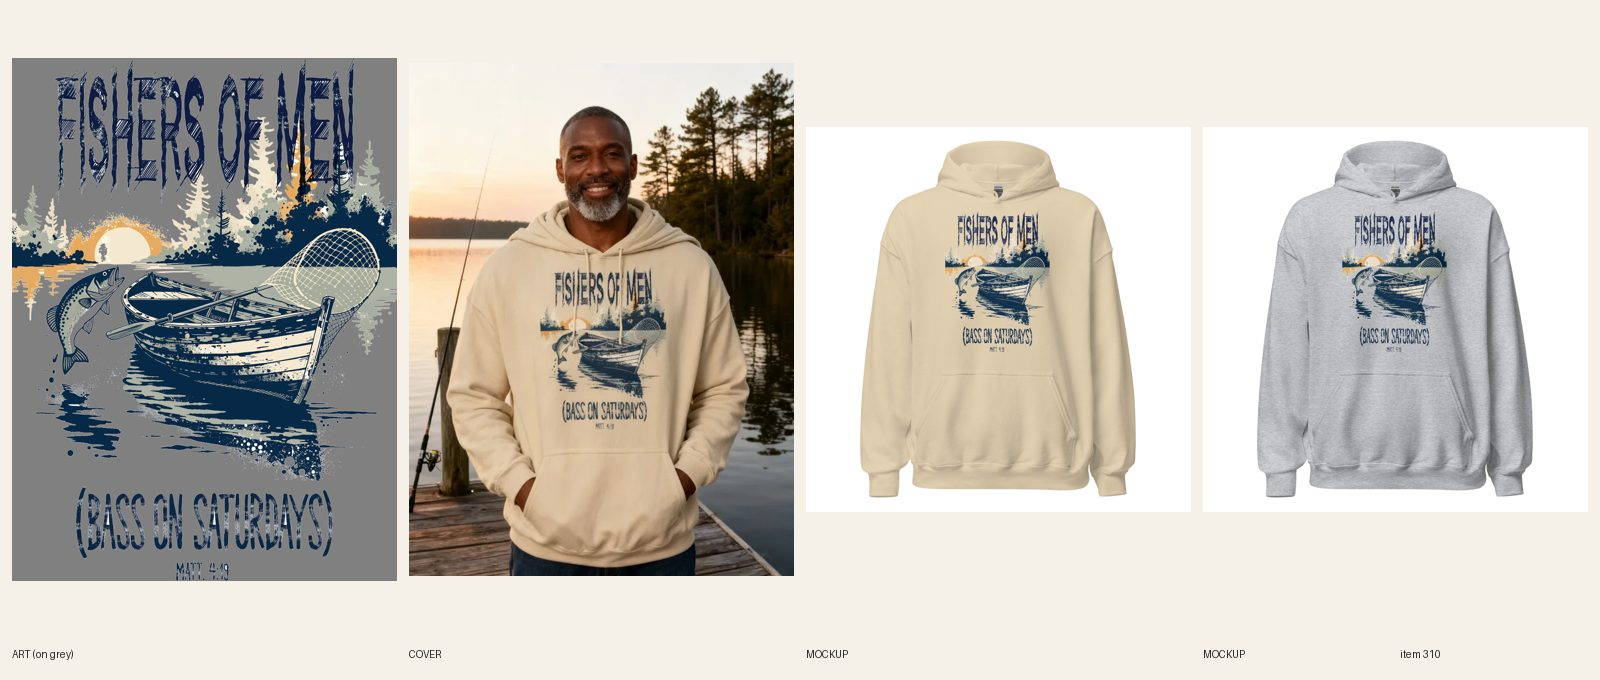
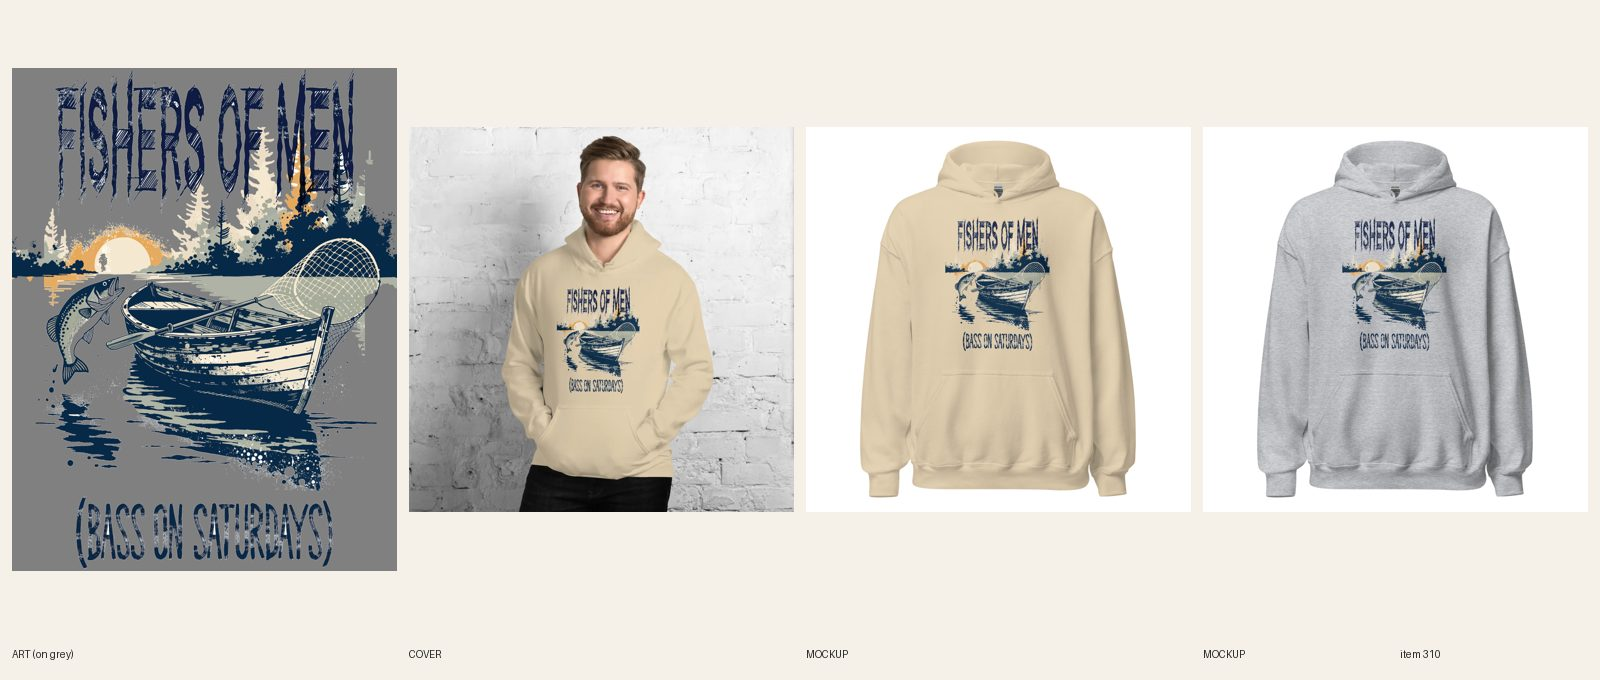
[B] review 310 Fishers of Men redo (edges broken, MATT line dropped, temp cover)
Claude-Session: https://claude.ai/code/session_01Az49gcuMMQPFtTsfDvNdKQ

Changed region(s): [[0.0, 0.0618, 0.5, 0.8647], [0.8125, 0.3088, 0.9062, 0.525], [0.5938, 0.3088, 0.6562, 0.525]]

diff --git a/src/data/covers.ts b/src/data/covers.ts
@@ -302,7 +302,7 @@ export const covers: Record<string, { src: string; alt: string }> = {
   'womens-nurse-dont-say-the-q-word-hoodie': { src: '/covers/womens-nurse-dont-say-the-q-word-hoodie.webp', alt: 'Woman in her early 40s with shoulder-length black hair and small hoop earrings in a Sand Don\'t Say the Q Word nurse hoodie in a hospital staff parking lot at dawn wearing navy scrub pants' },
   'womens-mama-i-have-followers-duck-hoodie': { src: '/covers/womens-mama-i-have-followers-duck-hoodie.webp', alt: 'Woman in her early 30s with a low ponytail in a Sand I Have Followers duck hoodie at a farm pond in October with ducks on the water and a stroller handle beside her' },
   'womens-bookish-plot-twist-cropped-hoodie': { src: '/covers/womens-bookish-plot-twist-cropped-hoodie.webp', alt: 'Woman in glasses and a black Plot Twist cropped hoodie standing between campus library shelves in autumn light' },
-  'mens-christian-fishers-of-men-hoodie': { src: '/covers/mens-christian-fishers-of-men-hoodie.webp', alt: 'Man in a sand Fishers of Men hoodie on a lake dock at sunrise with a fishing rod leaning on the post behind him' },
+  'mens-christian-fishers-of-men-hoodie': { src: '/covers/mens-christian-fishers-of-men-hoodie.webp', alt: 'Man smiling against a white brick wall in a sand Fishers of Men Bass on Saturdays christian hoodie, hands in the front pocket' },
   'womens-gym-lunges-and-lattes-hoodie': { src: '/covers/womens-gym-lunges-and-lattes-hoodie.webp', alt: 'Woman in a sand Lunges & Lattes hoodie smiling outside a bright boutique gym entrance in morning light' },
   'unisex-running-pace-leisurely-hoodie': { src: '/covers/unisex-running-pace-leisurely-hoodie.webp', alt: 'Man and woman in sand Pace: Leisurely hoodies smiling at a fall 5K finish area with orange leaves' },
   'mens-western-cowboy-up-later-hoodie': { src: '/covers/mens-western-cowboy-up-later-hoodie.webp', alt: 'Man in a sand Cowboy Up Later hoodie smiling at a ranch barn door and corral fence at golden hour' },

diff --git a/docs/intake-log.md b/docs/intake-log.md
@@ -1,5 +1,6 @@
 2026-10-17 04:42 UTC — [H] Helper run: Telegram inbox empty (getUpdates returned nothing, nothing to consume). Audit (283 live): 162 errors, all price (builders' job), 8 warnings left alone; no scripted meta/SEO/collection errors to fix. Esbuild was missing from node_modules, so ran npm ci first. Category backfill: 0 products without a category (done). Site freshness: womens-christmas-cardinal-christmas-hoodie, womens-christmas-winter-woods-fox-hoodie, womens-christmas-christmas-cats-hoodie all 200. Stuck check: none (320 BUILDING, last commit 04:37 UTC; lane locks A 03:58, B 04:28). Announcement bar unchanged (price errors not yet zero). Daily summary not due (next after 12:00 UTC). Lock released.
 RUNNING lane A since 2026-10-17 03:58 UTC
+2026-10-17 04:51 UTC — [B] Builder (temp-cover mode): #310 Fishers of Men hoodie REDO → REVIEW (edges broken, MATT. line dropped, temp cover).
 2026-10-17 04:47 UTC — [B] Builder (temp-cover mode): #322 Loose Goose crewneck → REVIEW (temp cover, woman).
 2026-10-17 04:43 UTC — [A] Builder (ART-NEXT): #283 Deck the Stalls tee and #318 Tied Up crewneck drafts built (ART-NEXT). All lane A new-art READY items now have drafts (273 275 281 282 283 318 331-334).
 2026-10-17 04:45 UTC — [A] Builder run summary (fal still empty, no fal calls): REVIEW with temp covers: #203 #204 #206 #207 (director already took these live), #210 #211 #212, #218, #279, #335. ART-NEXT drafts (no art/sync/images): #273 #275 #281 #282 #283 #318 #331 #332 #333 #334. Compare-at cleared on 17 older holiday products (13 hoodies, 4 tees; 145 audit price errors left, mostly tees/crewnecks) and on all new builds. Skipped, need fal: #205 #216 #217 #219 #221 #237 #239 #244 #245 #246 #251-258 (re-letter/redraw), #280 (Pie Season script needs re-lettering), #277 (waits on #144 art), twins #274 #276 #284 #319 (wait on their new art). New scripts: pf-lifestyle.py (Printful v2 lifestyle mockups by style id), artnext-tee.sh, artnext-hoodie.sh, artnext-log.sh, _il.sh, _resolve.sh. Print files hosted on branch lane-a-files (raw.githubusercontent.com URLs), not main. Lock released.

diff --git a/docs/pipeline/310-christian-hoodie-fishers-of-men.md b/docs/pipeline/310-christian-hoodie-fishers-of-men.md
@@ -1,4 +1,5 @@
-status: BUILDING [B] 2026-10-17 05:25 (REDO)
+status: REVIEW
+cover: temp
 lane: B
 type: new
 id: 310
@@ -27,3 +28,4 @@ kd: 14
   1. R4.1 / R5.3.8: the lake scene ends in straight vertical canvas cuts at the left and right edges (treeline, shoreline band and water stop on a ruler line); on the hoodie it reads as a pasted rectangle. Break both side edges up into worn, ragged screen-print edges (scripts/ragged-edge.py) so the scene fades out.
   2. R3.7.6 / R5.3.2: MATT. 4:19 is unreadable at phone size on both mockups. Enlarge it to read on the Sand mockup (roughly half the width of BASS ON SATURDAYS), hand-lettered, or drop it; FISHERS OF MEN and (BASS ON SATURDAYS) pass.
   3. Cover is good (man, dock, hands in pocket). Composite the fixed print onto it (R6.9), then REVIEW.
+- 2026-10-17 04:51 UTC [B] (temp-cover mode, no fal): REDO per director (fal empty, no fal calls): (1) side edges of the scene broken into worn ragged edges with ragged-edge.py (columns <300 and >3300 only, depth 160, rows 900-3400, sunrise and centre untouched); (2) MATT. 4:19 dropped (the brief allows it; it was a clean-sans line): erased and canvas cropped to 3600x4700, copy sentence removed; BASS ON SATURDAYS unchanged. New file 1088039475 (hosted from repo raw URL, no fal), FW 1500 relinked on sync 482381387, new Sand + Sport Grey mockups replaced in place, copy fixed. Cover: the old dock cover shows the old print, so TEMP COVER from Printful Men's Lifestyle 2 (style 1415, Sand, smiling man, hands in pocket, print fully visible); the director's good dock cover is lost until fal is funded, could be recomposed then. REVIEW once sync 14/14.
